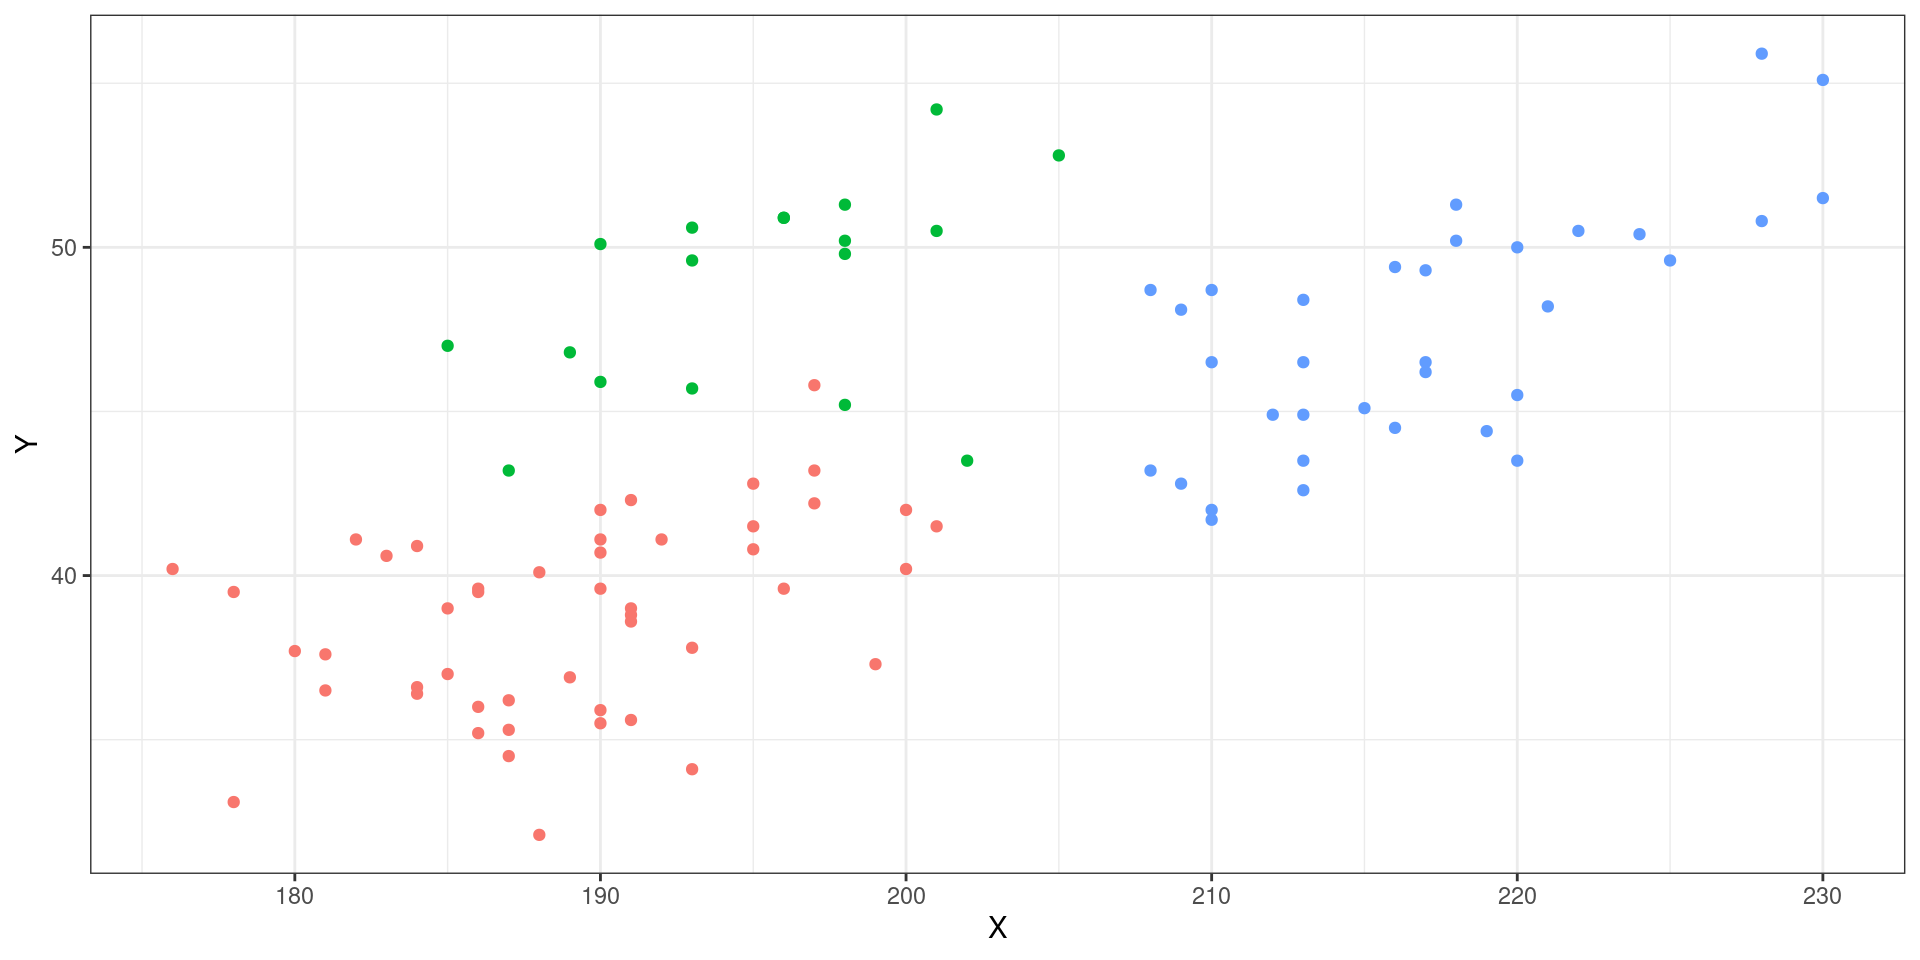
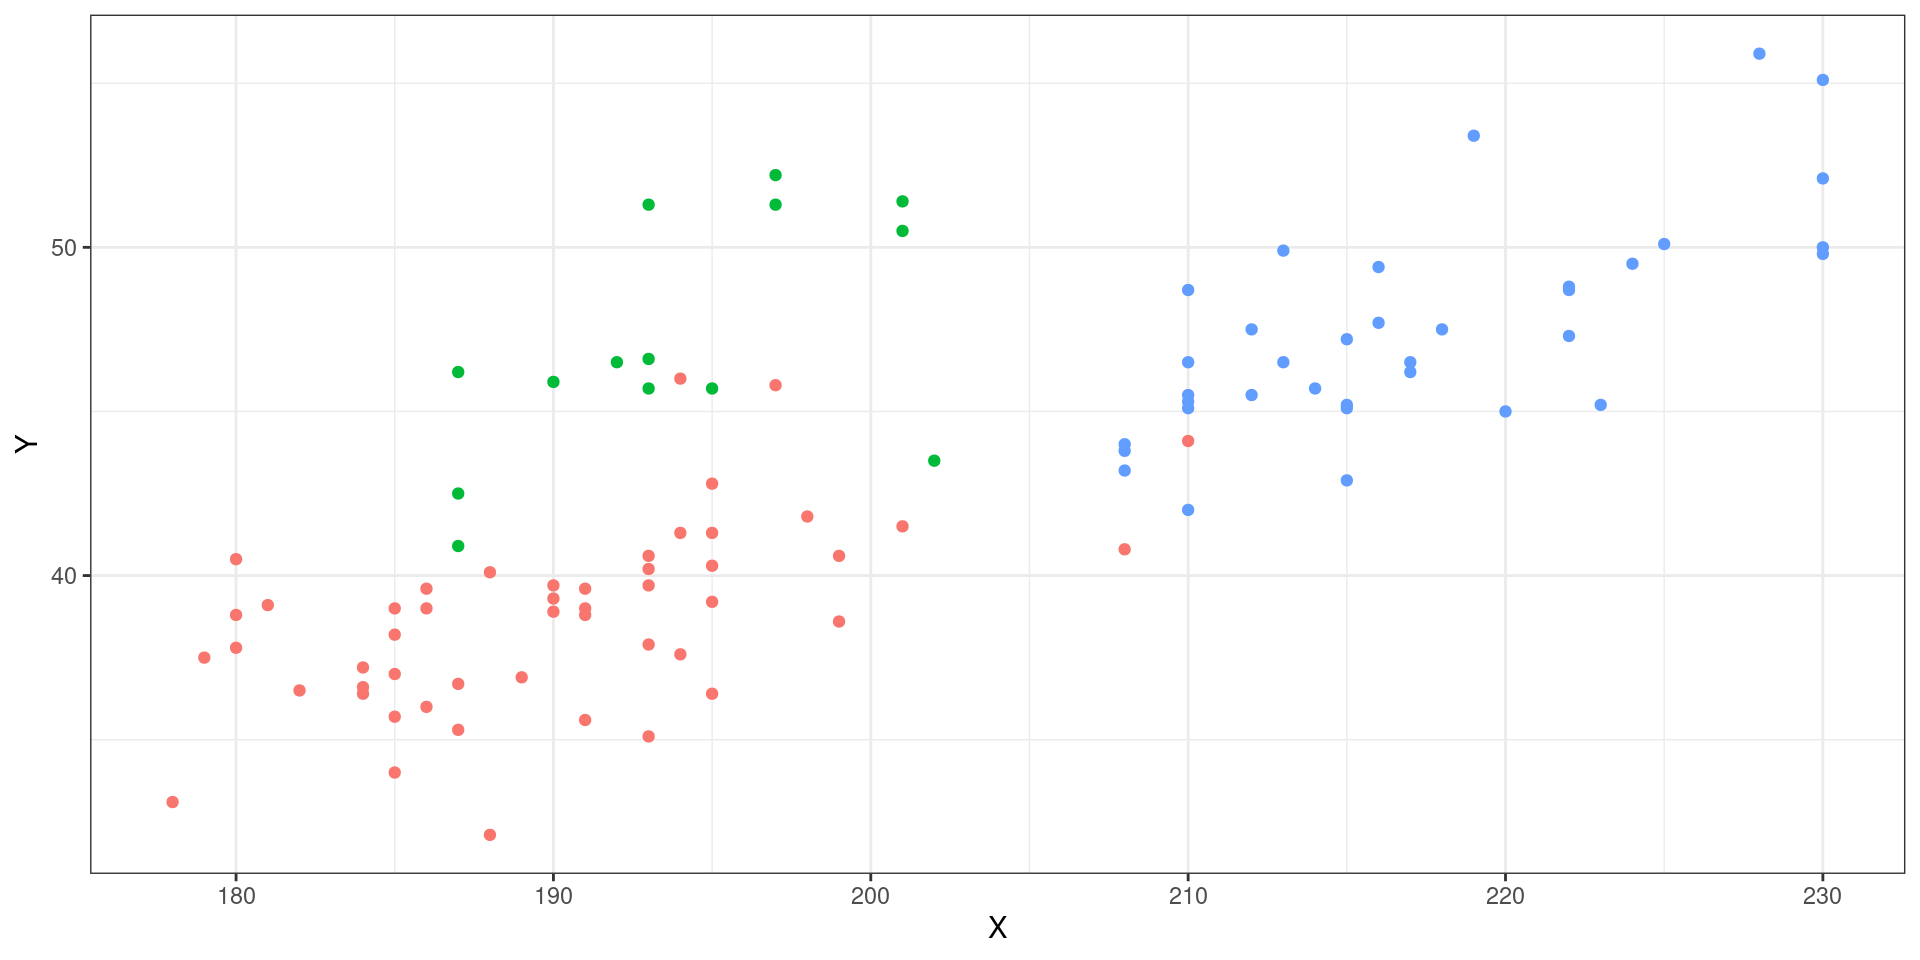
Updated Files

diff --git a/docs/lectures/9b.html b/docs/lectures/9b.html
@@ -34,6 +34,71 @@
       margin: 0 0.8em 0.2em -1em; /* quarto-specific, see https://github.com/quarto-dev/quarto-cli/issues/4556 */ 
       vertical-align: middle;
     }
+    /* CSS for syntax highlighting */
+    pre > code.sourceCode { white-space: pre; position: relative; }
+    pre > code.sourceCode > span { line-height: 1.25; }
+    pre > code.sourceCode > span:empty { height: 1.2em; }
+    .sourceCode { overflow: visible; }
+    code.sourceCode > span { color: inherit; text-decoration: inherit; }
+    div.sourceCode { margin: 1em 0; }
+    pre.sourceCode { margin: 0; }
+    @media screen {
+    div.sourceCode { overflow: auto; }
+    }
+    @media print {
+    pre > code.sourceCode { white-space: pre-wrap; }
+    pre > code.sourceCode > span { text-indent: -5em; padding-left: 5em; }
+    }
+    pre.numberSource code
+      { counter-reset: source-line 0; }
+    pre.numberSource code > span
+      { position: relative; left: -4em; counter-increment: source-line; }
+    pre.numberSource code > span > a:first-child::before
+      { content: counter(source-line);
+        position: relative; left: -1em; text-align: right; vertical-align: baseline;
+        border: none; display: inline-block;
+        -webkit-touch-callout: none; -webkit-user-select: none;
+        -khtml-user-select: none; -moz-user-select: none;
+        -ms-user-select: none; user-select: none;
+        padding: 0 4px; width: 4em;
+        color: #aaaaaa;
+      }
+    pre.numberSource { margin-left: 3em; border-left: 1px solid #aaaaaa;  padding-left: 4px; }
+    div.sourceCode
+      { color: #003b4f; background-color: #f1f3f5; }
+    @media screen {
+    pre > code.sourceCode > span > a:first-child::before { text-decoration: underline; }
+    }
+    code span { color: #003b4f; } /* Normal */
+    code span.al { color: #ad0000; } /* Alert */
+    code span.an { color: #5e5e5e; } /* Annotation */
+    code span.at { color: #657422; } /* Attribute */
+    code span.bn { color: #ad0000; } /* BaseN */
+    code span.bu { } /* BuiltIn */
+    code span.cf { color: #003b4f; } /* ControlFlow */
+    code span.ch { color: #20794d; } /* Char */
+    code span.cn { color: #8f5902; } /* Constant */
+    code span.co { color: #5e5e5e; } /* Comment */
+    code span.cv { color: #5e5e5e; font-style: italic; } /* CommentVar */
+    code span.do { color: #5e5e5e; font-style: italic; } /* Documentation */
+    code span.dt { color: #ad0000; } /* DataType */
+    code span.dv { color: #ad0000; } /* DecVal */
+    code span.er { color: #ad0000; } /* Error */
+    code span.ex { } /* Extension */
+    code span.fl { color: #ad0000; } /* Float */
+    code span.fu { color: #4758ab; } /* Function */
+    code span.im { color: #00769e; } /* Import */
+    code span.in { color: #5e5e5e; } /* Information */
+    code span.kw { color: #003b4f; } /* Keyword */
+    code span.op { color: #5e5e5e; } /* Operator */
+    code span.ot { color: #003b4f; } /* Other */
+    code span.pp { color: #ad0000; } /* Preprocessor */
+    code span.sc { color: #5e5e5e; } /* SpecialChar */
+    code span.ss { color: #20794d; } /* SpecialString */
+    code span.st { color: #20794d; } /* String */
+    code span.va { color: #111111; } /* Variable */
+    code span.vs { color: #20794d; } /* VerbatimString */
+    code span.wa { color: #5e5e5e; font-style: italic; } /* Warning */
   </style>
   <link rel="stylesheet" href="../site_libs/revealjs/dist/theme/quarto.css">
   <link href="../site_libs/revealjs/plugin/quarto-line-highlight/line-highlight.css" rel="stylesheet">
@@ -366,7 +431,19 @@
 </section>
 <section id="knn" class="slide level2">
 <h2>KNN</h2>
+<div class="cell">
+<div class="sourceCode cell-code" id="cb1"><pre class="sourceCode numberSource r number-lines code-with-copy"><code class="sourceCode r"><span id="cb1-1"><a href="#cb1-1"></a><span class="fu">library</span>(magrittr)</span>
+<span id="cb1-2"><a href="#cb1-2"></a><span class="fu">library</span>(tidyverse)</span>
+<span id="cb1-3"><a href="#cb1-3"></a><span class="fu">library</span>(palmerpenguins)</span>
+<span id="cb1-4"><a href="#cb1-4"></a></span>
+<span id="cb1-5"><a href="#cb1-5"></a>penguins <span class="sc">%&gt;%</span> <span class="fu">sample_n</span>(<span class="dv">100</span>) <span class="sc">%&gt;%</span>  </span>
+<span id="cb1-6"><a href="#cb1-6"></a>  <span class="fu">ggplot</span>(<span class="fu">aes</span>(<span class="at">x =</span> flipper_length_mm, <span class="at">y =</span> bill_length_mm, <span class="at">color =</span> species)) <span class="sc">+</span></span>
+<span id="cb1-7"><a href="#cb1-7"></a>  <span class="fu">geom_point</span>() <span class="sc">+</span></span>
+<span id="cb1-8"><a href="#cb1-8"></a>  <span class="fu">xlab</span>(<span class="st">"X"</span>) <span class="sc">+</span> <span class="fu">ylab</span>(<span class="st">"Y"</span>) <span class="sc">+</span></span>
+<span id="cb1-9"><a href="#cb1-9"></a>  <span class="fu">guides</span>(<span class="at">color =</span> <span class="cn">FALSE</span>) <span class="sc">+</span></span>
+<span id="cb1-10"><a href="#cb1-10"></a>  <span class="fu">theme_bw</span>()</span></code><button title="Copy to Clipboard" class="code-copy-button"><i class="bi"></i></button></pre></div>
 
+</div>
 <img data-src="9b_files/figure-revealjs/unnamed-chunk-1-1.png" width="960" class="r-stretch"></section>
 <section id="distances" class="slide level2">
 <h2>Distances</h2>
@@ -564,22 +641,66 @@ f_k(\boldsymbol X) = \prod^p_{j} f_{jk}(x_j|c_k)
 </section>
 <section id="lda-1" class="slide level2">
 <h2>LDA</h2>
+<div class="cell">
+<div class="sourceCode cell-code" id="cb2"><pre class="sourceCode numberSource r number-lines code-with-copy"><code class="sourceCode r"><span id="cb2-1"><a href="#cb2-1"></a><span class="fu">library</span>(palmerpenguins)</span>
+<span id="cb2-2"><a href="#cb2-2"></a><span class="fu">library</span>(MASS)</span>
+<span id="cb2-3"><a href="#cb2-3"></a><span class="fu">library</span>(tidyverse)</span>
+<span id="cb2-4"><a href="#cb2-4"></a>select <span class="ot">&lt;-</span> dplyr<span class="sc">::</span>select</span>
+<span id="cb2-5"><a href="#cb2-5"></a>penguins <span class="ot">&lt;-</span> penguins <span class="sc">|&gt;</span> <span class="fu">drop_na</span>()</span>
+<span id="cb2-6"><a href="#cb2-6"></a>x_lda <span class="ot">&lt;-</span> penguins <span class="sc">|&gt;</span> <span class="fu">lda</span>(species <span class="sc">~</span> bill_length_mm <span class="sc">+</span> </span>
+<span id="cb2-7"><a href="#cb2-7"></a>                                   bill_depth_mm <span class="sc">+</span> </span>
+<span id="cb2-8"><a href="#cb2-8"></a>                                   flipper_length_mm <span class="sc">+</span> </span>
+<span id="cb2-9"><a href="#cb2-9"></a>                                   body_mass_g,</span>
+<span id="cb2-10"><a href="#cb2-10"></a>                         <span class="at">data =</span> _)</span></code><button title="Copy to Clipboard" class="code-copy-button"><i class="bi"></i></button></pre></div>
+</div>
 </section>
 <section id="lda-prediction" class="slide level2">
 <h2>LDA Prediction</h2>
+<div class="cell">
+<div class="sourceCode cell-code" id="cb3"><pre class="sourceCode numberSource r number-lines code-with-copy"><code class="sourceCode r"><span id="cb3-1"><a href="#cb3-1"></a>new_df <span class="ot">&lt;-</span> penguins <span class="sc">|&gt;</span> <span class="fu">select</span>(bill_length_mm,</span>
+<span id="cb3-2"><a href="#cb3-2"></a>                           bill_depth_mm,</span>
+<span id="cb3-3"><a href="#cb3-3"></a>                          flipper_length_mm,</span>
+<span id="cb3-4"><a href="#cb3-4"></a>                         body_mass_g)</span>
+<span id="cb3-5"><a href="#cb3-5"></a>x_lda_predict <span class="ot">&lt;-</span> x_lda <span class="sc">|&gt;</span> <span class="fu">predict</span>(new_df)</span></code><button title="Copy to Clipboard" class="code-copy-button"><i class="bi"></i></button></pre></div>
+</div>
 </section>
 <section id="lda-confusion-matrix" class="slide level2">
 <h2>LDA Confusion Matrix</h2>
+<div class="cell">
+<div class="sourceCode cell-code" id="cb4"><pre class="sourceCode numberSource r number-lines code-with-copy"><code class="sourceCode r"><span id="cb4-1"><a href="#cb4-1"></a><span class="fu">table</span>(penguins<span class="sc">$</span>species, x_lda_predict<span class="sc">$</span>class)</span></code><button title="Copy to Clipboard" class="code-copy-button"><i class="bi"></i></button></pre></div>
+<div class="cell-output cell-output-stdout">
+<pre><code>#&gt;            
+#&gt;             Adelie Chinstrap Gentoo
+#&gt;   Adelie       145         1      0
+#&gt;   Chinstrap      3        65      0
+#&gt;   Gentoo         0         0    119</code></pre>
+</div>
+</div>
 </section>
 <section id="qda-3" class="slide level2">
 <h2>QDA</h2>
+<div class="cell">
+<div class="sourceCode cell-code" id="cb6"><pre class="sourceCode numberSource r number-lines code-with-copy"><code class="sourceCode r"><span id="cb6-1"><a href="#cb6-1"></a>x_qda <span class="ot">&lt;-</span> penguins <span class="sc">|&gt;</span> <span class="fu">qda</span>(species <span class="sc">~</span> bill_length_mm <span class="sc">+</span> </span>
+<span id="cb6-2"><a href="#cb6-2"></a>                                   bill_depth_mm <span class="sc">+</span> </span>
+<span id="cb6-3"><a href="#cb6-3"></a>                                   flipper_length_mm <span class="sc">+</span> </span>
+<span id="cb6-4"><a href="#cb6-4"></a>                                   body_mass_g,</span>
+<span id="cb6-5"><a href="#cb6-5"></a>                         <span class="at">data =</span> _)</span></code><button title="Copy to Clipboard" class="code-copy-button"><i class="bi"></i></button></pre></div>
+</div>
 </section>
 <section id="qda-prediction" class="slide level2">
 <h2>QDA Prediction</h2>
+<div class="cell">
+<div class="sourceCode cell-code" id="cb7"><pre class="sourceCode numberSource r number-lines code-with-copy"><code class="sourceCode r"><span id="cb7-1"><a href="#cb7-1"></a>x_qda_predict <span class="ot">&lt;-</span> x_qda <span class="sc">|&gt;</span>  <span class="fu">predict</span>(penguins <span class="sc">|&gt;</span></span>
+<span id="cb7-2"><a href="#cb7-2"></a>                                     <span class="fu">select</span>(bill_length_mm, </span>
+<span id="cb7-3"><a href="#cb7-3"></a>                                            bill_depth_mm,</span>
+<span id="cb7-4"><a href="#cb7-4"></a>                                            flipper_length_mm,</span>
+<span id="cb7-5"><a href="#cb7-5"></a>                                            body_mass_g))</span></code><button title="Copy to Clipboard" class="code-copy-button"><i class="bi"></i></button></pre></div>
+</div>
 </section>
 <section id="qda-confusion-matrix" class="slide level2">
 <h2>QDA Confusion Matrix</h2>
 <div class="cell">
+<div class="sourceCode cell-code" id="cb8"><pre class="sourceCode numberSource r number-lines code-with-copy"><code class="sourceCode r"><span id="cb8-1"><a href="#cb8-1"></a><span class="fu">table</span>(penguins<span class="sc">$</span>species, x_qda_predict<span class="sc">$</span>class)</span></code><button title="Copy to Clipboard" class="code-copy-button"><i class="bi"></i></button></pre></div>
 <div class="cell-output cell-output-stdout">
 <pre><code>#&gt;            
 #&gt;             Adelie Chinstrap Gentoo
@@ -591,13 +712,29 @@ f_k(\boldsymbol X) = \prod^p_{j} f_{jk}(x_j|c_k)
 </section>
 <section id="naive-bayes-4" class="slide level2">
 <h2>Naive Bayes</h2>
+<div class="cell">
+<div class="sourceCode cell-code" id="cb10"><pre class="sourceCode numberSource r number-lines code-with-copy"><code class="sourceCode r"><span id="cb10-1"><a href="#cb10-1"></a><span class="fu">library</span>(e1071)</span>
+<span id="cb10-2"><a href="#cb10-2"></a>x_nb <span class="ot">&lt;-</span> penguins <span class="sc">|&gt;</span>  <span class="fu">naiveBayes</span>(species <span class="sc">~</span> bill_length_mm <span class="sc">+</span></span>
+<span id="cb10-3"><a href="#cb10-3"></a>                                             bill_depth_mm <span class="sc">+</span> </span>
+<span id="cb10-4"><a href="#cb10-4"></a>                                             flipper_length_mm <span class="sc">+</span> </span>
+<span id="cb10-5"><a href="#cb10-5"></a>                                             body_mass_g, </span>
+<span id="cb10-6"><a href="#cb10-6"></a>                                   <span class="at">data =</span> _)</span></code><button title="Copy to Clipboard" class="code-copy-button"><i class="bi"></i></button></pre></div>
+</div>
 </section>
 <section id="naive-bayes-prediction" class="slide level2">
 <h2>Naive Bayes Prediction</h2>
+<div class="cell">
+<div class="sourceCode cell-code" id="cb11"><pre class="sourceCode numberSource r number-lines code-with-copy"><code class="sourceCode r"><span id="cb11-1"><a href="#cb11-1"></a>x_nb_predict <span class="ot">&lt;-</span> x_nb  <span class="sc">|&gt;</span>  <span class="fu">predict</span>(penguins <span class="sc">|&gt;</span></span>
+<span id="cb11-2"><a href="#cb11-2"></a>                                     <span class="fu">select</span>(bill_length_mm, </span>
+<span id="cb11-3"><a href="#cb11-3"></a>                                            bill_depth_mm,</span>
+<span id="cb11-4"><a href="#cb11-4"></a>                                            flipper_length_mm,</span>
+<span id="cb11-5"><a href="#cb11-5"></a>                                            body_mass_g))</span></code><button title="Copy to Clipboard" class="code-copy-button"><i class="bi"></i></button></pre></div>
+</div>
 </section>
 <section id="naive-bayes-confusion-matrix" class="slide level2">
 <h2>Naive Bayes Confusion Matrix</h2>
 <div class="cell">
+<div class="sourceCode cell-code" id="cb12"><pre class="sourceCode numberSource r number-lines code-with-copy"><code class="sourceCode r"><span id="cb12-1"><a href="#cb12-1"></a><span class="fu">table</span>(penguins<span class="sc">$</span>species, x_nb_predict)</span></code><button title="Copy to Clipboard" class="code-copy-button"><i class="bi"></i></button></pre></div>
 <div class="cell-output cell-output-stdout">
 <pre><code>#&gt;            x_nb_predict
 #&gt;             Adelie Chinstrap Gentoo

diff --git a/docs/lectures/2a.html b/docs/lectures/2a.html
@@ -545,7 +545,7 @@
   };
 
   // Store cell data
-  globalThis.qwebrCellDetails = [{"code":"letters\nletters[13]","id":1,"options":{"context":"interactive"}},{"code":"x <- matrix(1:40, nrow = 4)","id":2,"options":{"context":"interactive"}},{"code":"mtcars[,\"mpg\"]","id":3,"options":{"context":"interactive"}},{"code":"toy_list <- list(x = letters,\n                 y = mtcars,\n                 z = list(x = diag(rep(1, 5),\n                          y = matrix(1:40, nrow = 5),\n                          z = band_members)))","id":4,"options":{"context":"interactive"}},{"code":"4 > 1:8\n\n1:8 > 4","id":5,"options":{"context":"interactive"}},{"code":"x <- sample(-10:10,1)\nif (x > 0){\n  print(\"Positive\")\n}\nprint(x)","id":6,"options":{"context":"interactive"}},{"code":"x <- sample(-10:10,1)\nif (x > 0 ){\n  print(\"Positive\")\n} else {\n  print(\"Non-positive\")\n} \nprint(x)","id":7,"options":{"context":"interactive"}},{"code":"x <- sample(-10:10,1)\nif (x > 0 ){\n  print(\"Positive\")\n} else if (x == 0) {\n  print(\"Zero\")\n} else {\n  print(\"Negative\")\n}\nprint(x)","id":8,"options":{"context":"interactive"}},{"code":"x <- sample(-10:10,1)\nif (x > 0 ){\n  stop(\"This is an error\")\n  print(\"Positive\")\n} else if (x == 0) {\n  print(\"Zero\")\n} else {\n  stop(\"This is an error\")\n  print(\"Negative\")\n}\nprint(x)","id":9,"options":{"context":"interactive"}},{"code":"x <- sample(-10:10,1)\nif (x > 0 ){\n  try(stop(\"This is an error\"))\n  print(\"Positive\")\n} else if (x == 0) {\n  print(\"Zero\")\n} else {\n  try(stop(\"This is an error\"))\n  print(\"Negative\")\n}\nprint(x)","id":10,"options":{"context":"interactive"}},{"code":"x <- sample(-10:10,1)\nif (x > 0 ){\n  try(stop(\"This is an error\"), silent = T)\n  print(\"Positive\")\n} else if (x == 0) {\n  print(\"Zero\")\n} else {\n  try(stop(\"This is an error\"), silent = T)\n  print(\"Negative\")\n}\nprint(x)","id":11,"options":{"context":"interactive"}}];
+  globalThis.qwebrCellDetails = [{"options":{"context":"interactive"},"id":1,"code":"letters\nletters[13]"},{"options":{"context":"interactive"},"id":2,"code":"x <- matrix(1:40, nrow = 4)"},{"options":{"context":"interactive"},"id":3,"code":"mtcars[,\"mpg\"]"},{"options":{"context":"interactive"},"id":4,"code":"toy_list <- list(x = letters,\n                 y = mtcars,\n                 z = list(x = diag(rep(1, 5),\n                          y = matrix(1:40, nrow = 5),\n                          z = band_members)))"},{"options":{"context":"interactive"},"id":5,"code":"4 > 1:8\n\n1:8 > 4"},{"options":{"context":"interactive"},"id":6,"code":"x <- sample(-10:10,1)\nif (x > 0){\n  print(\"Positive\")\n}\nprint(x)"},{"options":{"context":"interactive"},"id":7,"code":"x <- sample(-10:10,1)\nif (x > 0 ){\n  print(\"Positive\")\n} else {\n  print(\"Non-positive\")\n} \nprint(x)"},{"options":{"context":"interactive"},"id":8,"code":"x <- sample(-10:10,1)\nif (x > 0 ){\n  print(\"Positive\")\n} else if (x == 0) {\n  print(\"Zero\")\n} else {\n  print(\"Negative\")\n}\nprint(x)"},{"options":{"context":"interactive"},"id":9,"code":"x <- sample(-10:10,1)\nif (x > 0 ){\n  stop(\"This is an error\")\n  print(\"Positive\")\n} else if (x == 0) {\n  print(\"Zero\")\n} else {\n  stop(\"This is an error\")\n  print(\"Negative\")\n}\nprint(x)"},{"options":{"context":"interactive"},"id":10,"code":"x <- sample(-10:10,1)\nif (x > 0 ){\n  try(stop(\"This is an error\"))\n  print(\"Positive\")\n} else if (x == 0) {\n  print(\"Zero\")\n} else {\n  try(stop(\"This is an error\"))\n  print(\"Negative\")\n}\nprint(x)"},{"options":{"context":"interactive"},"id":11,"code":"x <- sample(-10:10,1)\nif (x > 0 ){\n  try(stop(\"This is an error\"), silent = T)\n  print(\"Positive\")\n} else if (x == 0) {\n  print(\"Zero\")\n} else {\n  try(stop(\"This is an error\"), silent = T)\n  print(\"Negative\")\n}\nprint(x)"}];
 
   </script>
   <script type="module">

diff --git a/docs/lectures/1b.html b/docs/lectures/1b.html
@@ -545,7 +545,7 @@
   };
 
   // Store cell data
-  globalThis.qwebrCellDetails = [{"code":"","id":1,"options":{"context":"interactive"}},{"code":"","id":2,"options":{"context":"interactive"}},{"code":"","id":3,"options":{"context":"interactive"}},{"code":"","id":4,"options":{"context":"interactive"}},{"code":"","id":5,"options":{"context":"interactive"}}];
+  globalThis.qwebrCellDetails = [{"id":1,"options":{"context":"interactive"},"code":""},{"id":2,"options":{"context":"interactive"},"code":""},{"id":3,"options":{"context":"interactive"},"code":""},{"id":4,"options":{"context":"interactive"},"code":""},{"id":5,"options":{"context":"interactive"},"code":""}];
 
   </script>
   <script type="module">
